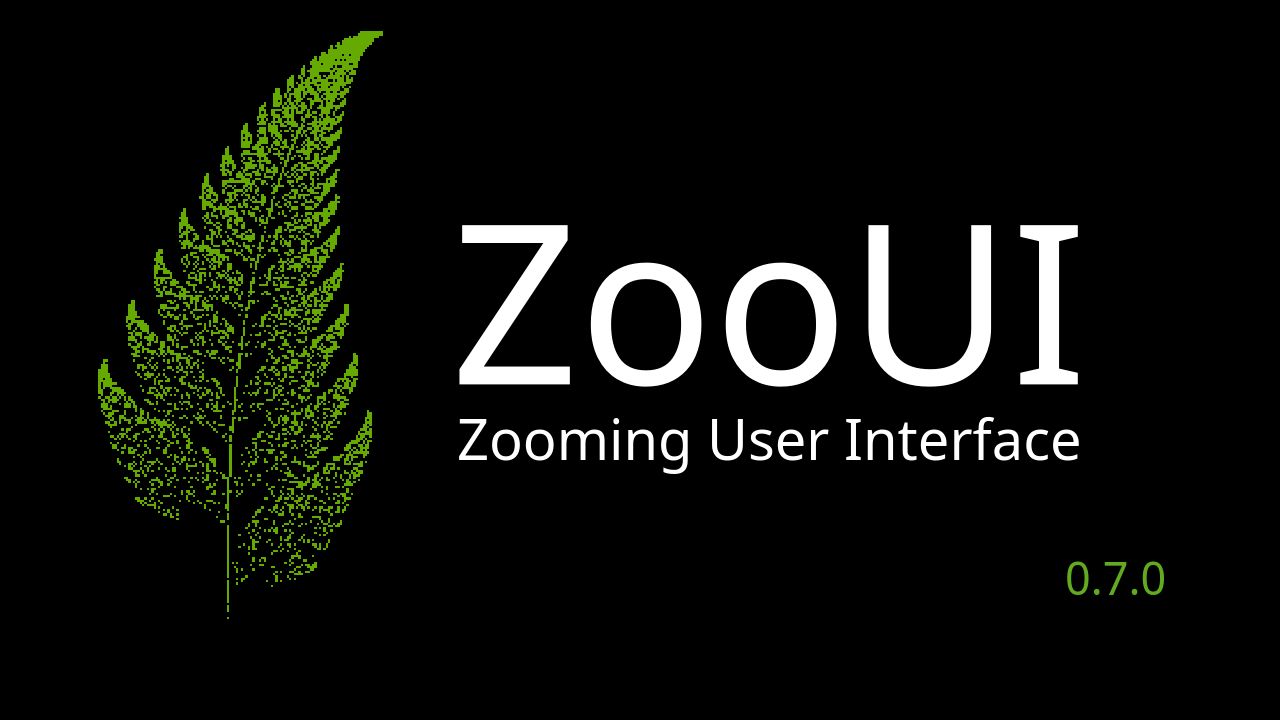
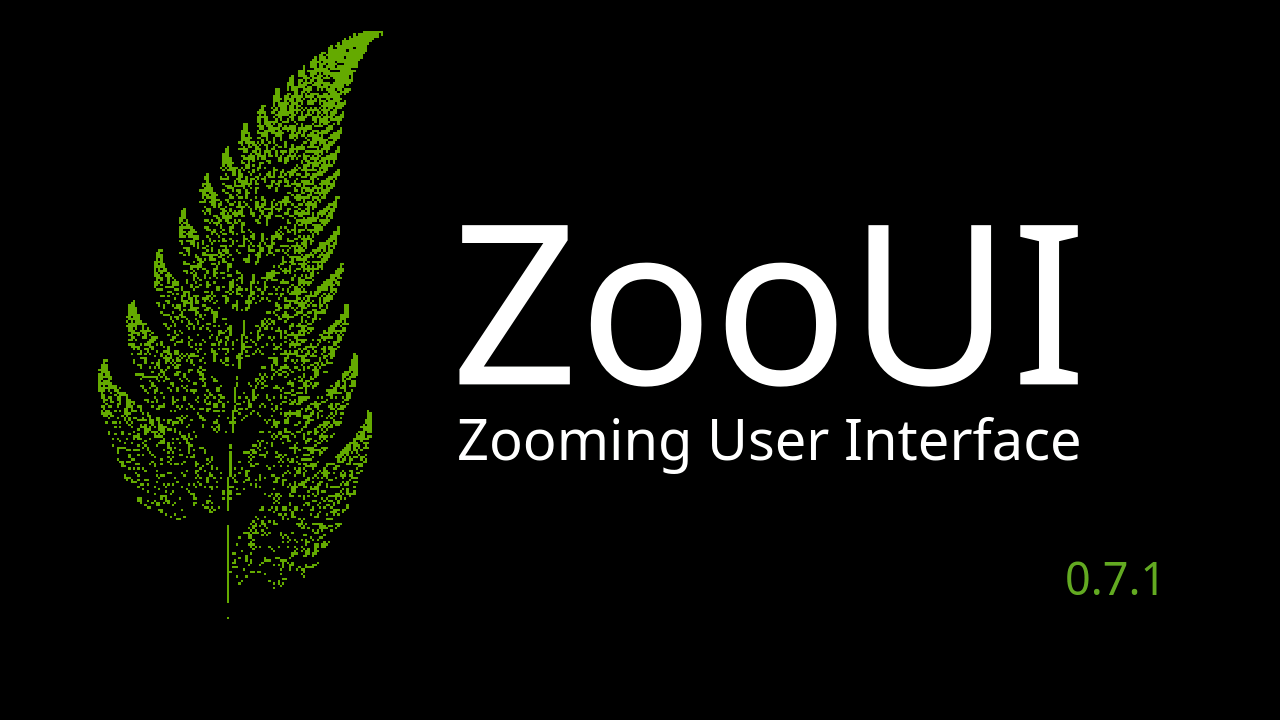
chore: bump version to 0.7.1

Changed region(s): [[0.0625, 0.0611, 0.3125, 0.7944], [0.875, 0.7639, 0.9062, 0.825]]

diff --git a/zooui/__init__.py b/zooui/__init__.py
@@ -37,7 +37,7 @@ along with this program; if not, see <https://www.gnu.org/licenses/>.
 """
 __credits__ = ["David Roberts, Andrea Silvestri"]
 __license__ = "GPLv3"
-__version__ = "0.7.0"
+__version__ = "0.7.1"
 __maintainer__ = "Andrea Silvestri"
 __email__ = "asd.standard@gmail.com"
 
